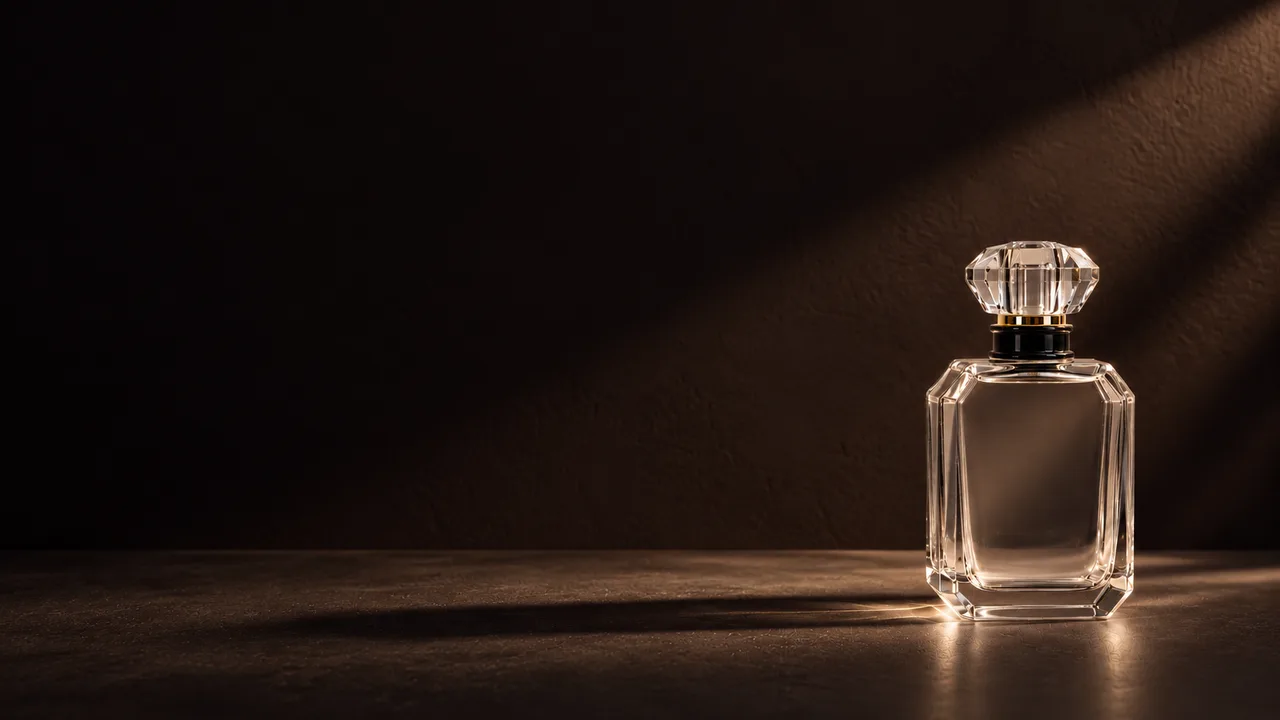
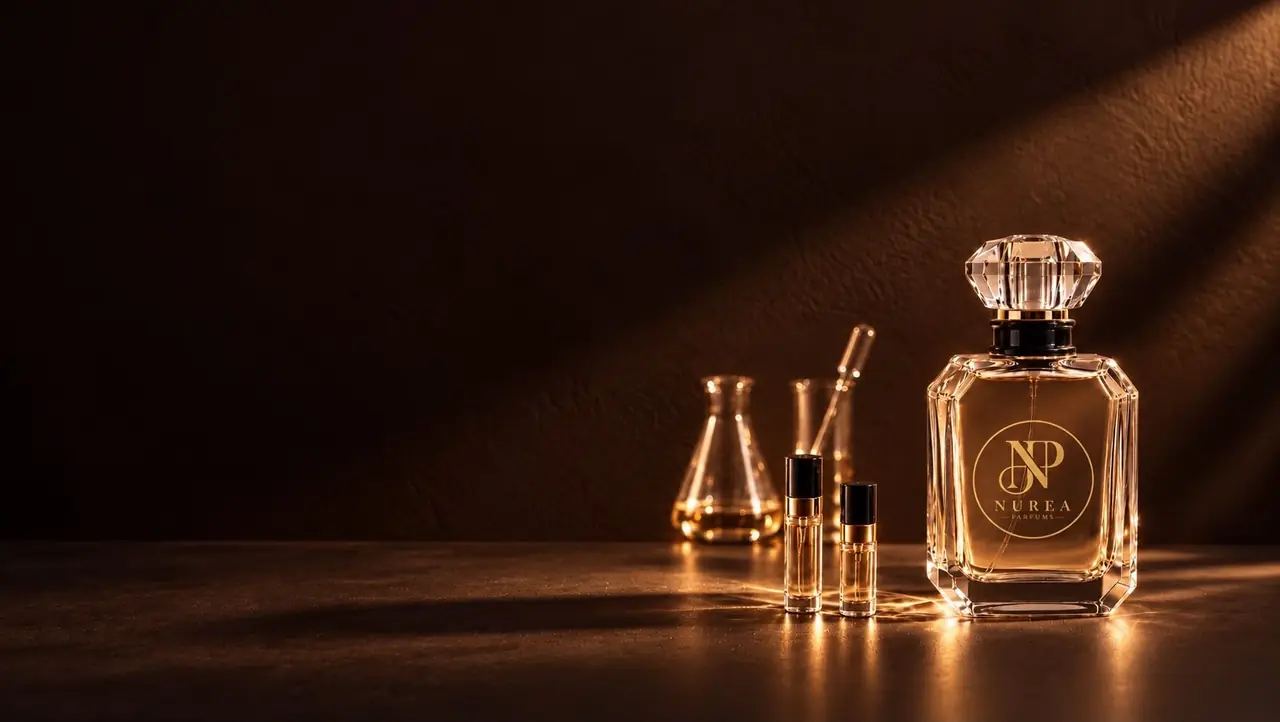
vitrine(hero): nouvelles photos du flacon Nuréa (étiquette au monogramme)
Les quatre photos du gérant du 21/10 remplacent les anciennes, fichier pour
fichier : flacon rempli, étiquette NP doré (sombre) / bordeaux (clair).
Liseré vert de 3 px rogné au bord droit des sources (1118 × 1402, 1668 × 941).
WebP qualité 74 pour tenir le LCP : 2 112 ms sombre / 1 292 ms clair, CLS 0
(1 532 / 1 064 avant ; budget 2,5 s).

Sous 375 px, le titre passe sur trois lignes et le bouton Snapchat touchait le
bouchon : la photo descend de --space-8 (haut fondu dans la page, sans recadrage)
et le bloc texte remonte d'autant.

diff --git a/src/components/features/Hero.tsx b/src/components/features/Hero.tsx
@@ -6,16 +6,16 @@ import { SnapchatIcon } from "@/components/ui/Icons";
 import { CONTACT } from "@/lib/data";
 
 /**
- * La photographie de la hero : le flacon Nuréa, seul, contre un mur uni, en deux lumières et deux
- * cadrages (brief : `docs/refonte-vitrine/annexes/brief-photo-hero.md`). Portrait 4:5 sous 768 px,
+ * La photographie de la hero : le flacon Nuréa (étiquette au monogramme), en deux lumières et deux
+ * cadrages (photos du gérant du 21/10 ; brief : `docs/refonte-vitrine/annexes/brief-photo-hero.md`). Portrait 4:5 sous 768 px,
  * paysage 16:9 au-delà. Déclinaisons (640, 1280) déclarées dans `src/lib/images/loader.ts`.
  */
 const PHOTO = {
-  portrait: { width: 1122, height: 1402, sombre: "/branding/hero/flacon-portrait-sombre.webp", clair: "/branding/hero/flacon-portrait-clair.webp" },
-  paysage: { width: 1672, height: 941, sombre: "/branding/hero/flacon-paysage-sombre.webp", clair: "/branding/hero/flacon-paysage-clair.webp" },
+  portrait: { width: 1118, height: 1402, sombre: "/branding/hero/flacon-portrait-sombre.webp", clair: "/branding/hero/flacon-portrait-clair.webp" },
+  paysage: { width: 1668, height: 941, sombre: "/branding/hero/flacon-paysage-sombre.webp", clair: "/branding/hero/flacon-paysage-clair.webp" },
 } as const;
 
-const ALT = "Un flacon Nuréa posé contre un mur, dans la lumière d'une fenêtre.";
+const ALT = "Un flacon Nuréa près de petits flacons et de verrerie, dans la lumière d'une fenêtre.";
 const LARGE = "(min-width: 768px)";
 
 type Lumiere = "sombre" | "clair";

diff --git a/app/globals.css b/app/globals.css
@@ -476,6 +476,22 @@
     margin-top: var(--space-6);
   }
 
+  /* Sous 375 px, le titre passe sur trois lignes : le bloc ne tient plus au-dessus du bouchon. La photo
+     descend de --space-8 (son haut se fond dans la page, comme son sol), sans recadrage ni agrandissement,
+     et le bloc remonte d'autant : les entrées s'arrêtent au-dessus du bouchon (41 % de la photo). */
+  @media (max-width: 374px) {
+    .hero {
+      grid-template-rows: calc(var(--space-8) + var(--hero-h) * 0.215) auto;
+      height: calc(var(--hero-h) + var(--space-8));
+    }
+
+    .hero-photo {
+      top: var(--space-8);
+      -webkit-mask-image: linear-gradient(to bottom, transparent 0, #000 var(--space-8), #000 calc(100% - var(--space-12)), transparent 100%);
+      mask-image: linear-gradient(to bottom, transparent 0, #000 var(--space-8), #000 calc(100% - var(--space-12)), transparent 100%);
+    }
+  }
+
   @media (min-width: 768px) {
     .hero {
       display: flex;

diff --git a/src/lib/images/loader.ts b/src/lib/images/loader.ts
@@ -34,7 +34,7 @@ const LOCAL_VARIANTS: Readonly<Record<string, readonly Variant[]>> = {
     { width: 640, src: "/branding/logos/nurea-logo-horizontal-light-640.webp" },
     { width: 1024, src: "/branding/logos/nurea-logo-horizontal-light-1024.webp" },
   ],
-  // Photo de la hero (flacon Nuréa) : portrait 1122 px avec sa déclinaison 640, paysage 1672 px avec sa 1280.
+  // Photo de la hero (flacon Nuréa) : portrait 1118 px avec sa déclinaison 640, paysage 1668 px avec sa 1280.
   "/branding/hero/flacon-portrait-sombre.webp": [{ width: 640, src: "/branding/hero/flacon-portrait-sombre-640.webp" }],
   "/branding/hero/flacon-portrait-clair.webp": [{ width: 640, src: "/branding/hero/flacon-portrait-clair-640.webp" }],
   "/branding/hero/flacon-paysage-sombre.webp": [{ width: 1280, src: "/branding/hero/flacon-paysage-sombre-1280.webp" }],
